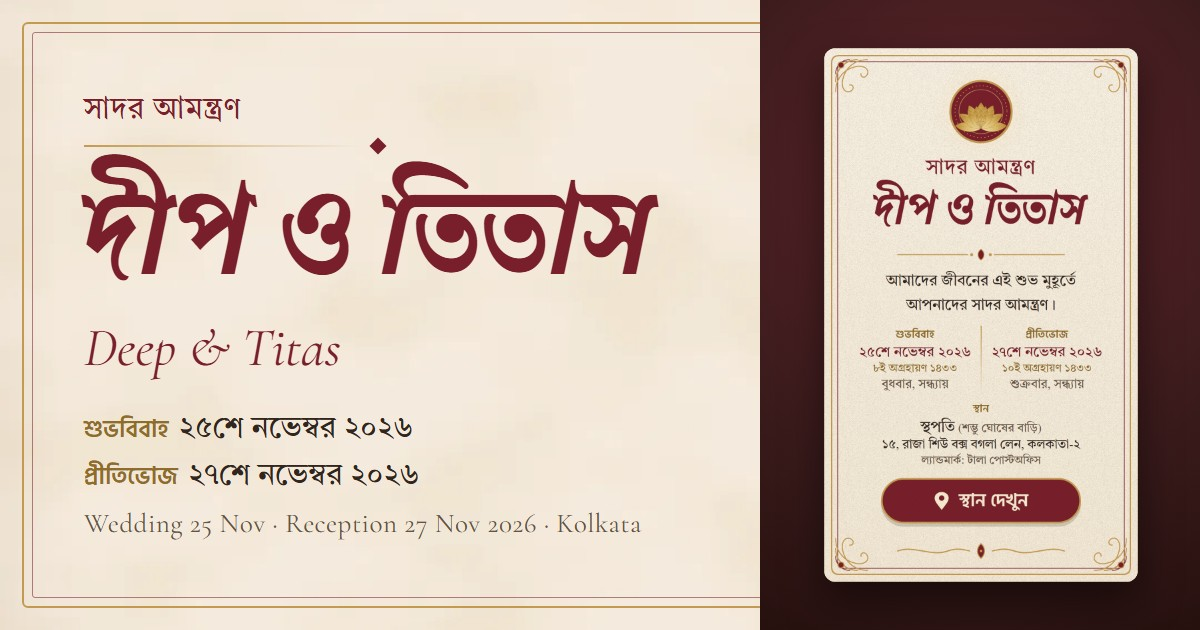
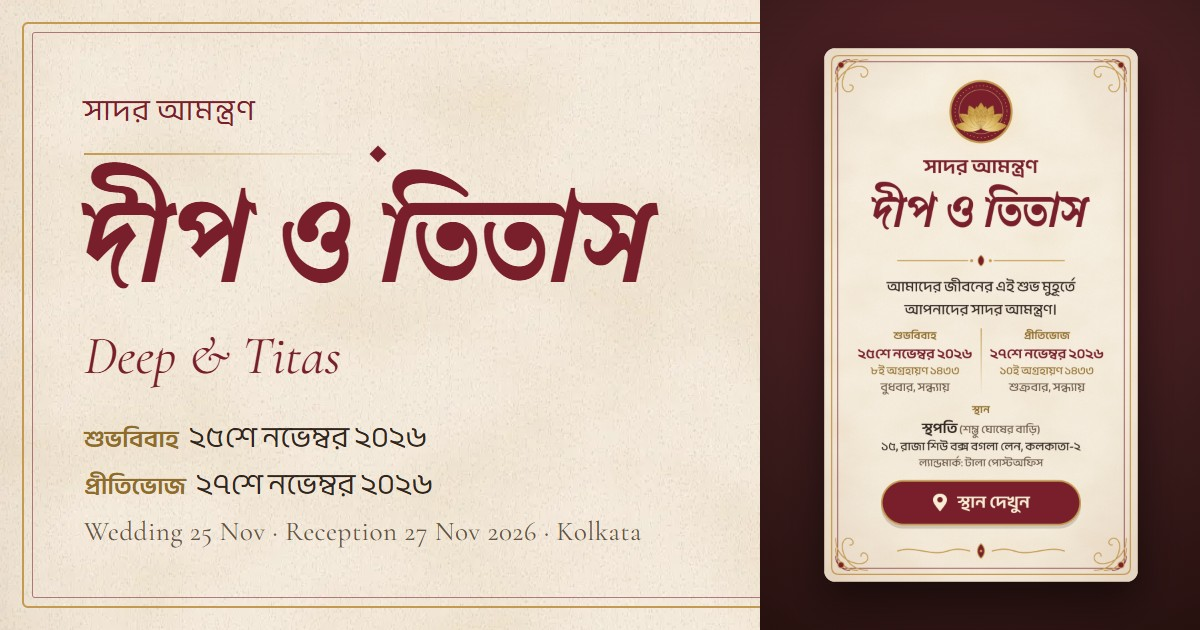
Docs and link preview for the 60 FPS rig, loader and new typography

diff --git a/AGENTS.md b/AGENTS.md
@@ -1,49 +1,67 @@
 # AGENTS.md — Deep & Titas · শুভ পরিণয়
 
-Interactive Bengali wedding invitation. A Remotion composition (1080×1920, 30 FPS, 1500 frames) is played
-inside a mobile-first React shell via `@remotion/player`, and ends on an interactive invitation card.
+Interactive Bengali wedding invitation. A Remotion composition (1080×1920, 60 FPS, 3000 frames, paced in 30-per-second
+"beats") is played inside a mobile-first React shell via `@remotion/player`, and ends on an interactive invitation card.
 
 ## Commands
 - `npm run dev` — Vite dev server for the website
 - `npm run studio` — Remotion Studio (composition id `DeepAndTitasWedding`)
 - `npm run render` — render the full MP4 to `out/`
 - `npm run still` — render the final invitation frame to `out/invitation.png`
+- `npm run art` — regenerate and bake all painted art, sprites and character parts (writes `src/remotion/art-manifest.ts`)
+- `npm run profile` — build, then play the site in headless Chrome as a throttled phone and print fps per scene
 - `npm run typecheck`, `npm run lint`, `npm test`, `npm run build`
 
 ## Architecture
-- `src/config/` — `timeline.ts` (single source of truth for frames), `wedding.ts` (editable event details),
+- `src/config/` — `timeline.ts` (single source of truth: scenes and beats), `wedding.ts` (editable event details),
   `translations.ts` (bn/en dictionary), `assets.ts` (asset URL helper)
-- `src/remotion/` — the cinematic composition (scenes, ornaments, character rig, the invitation card). Registered in `index.ts`/`Root.tsx`.
-- `src/app/` — the website shell (intro, controls, guided-mode state machine in `state/storyMachine.ts`, language toggle)
-- `public/` — local images (generated by `scripts/generate-art.mjs`) and the optional `audio/soundtrack.mp3`
-- `tests/` — Vitest unit tests (timeline, translations, wedding config, story machine)
+- `src/remotion/` — the cinematic composition (scenes, mandap, garden, the character rig, the invitation card).
+  Registered in `index.ts`/`Root.tsx`. `rig/motion.ts` is the pure pose maths (IK, walk, blinks, cloth lag);
+  `components/WeddingCouple.tsx` draws the figures; `camera.ts` the zoom; `art-manifest.ts` is generated.
+- `src/app/` — the website shell: boot loader (`components/Loader.tsx`, `loader/preload.ts`), cover (`IntroScreen.tsx`),
+  controls, guided-mode state machine (`state/storyMachine.ts`), language toggle, soundtrack (`hooks/useSoundtrack.ts`)
+- `scripts/art/*.mjs` — the art generators (garden, mandap, sprites, characters); `scripts/bake-art.mjs` bakes them to WebP
+- `public/` — baked images (`images/`, `images/rig`, `images/mandap`, `images/sprites`) and the optional `audio/soundtrack.mp3`
+- `tests/` — Vitest unit tests (timeline, rig, preloader, translations, dates, wedding config, story machine)
 
 ## Verifying visual changes
-`node scripts/stills.mjs <frames…>` renders PNGs to `out/stills/` (add `--lang=en`). Look at them — key frames:
-0, 150, 239 (scene 1), 420, 569 (scene 2), 820, 960, 1049 (scene 3), 1100, 1499 (invitation).
+`npm run stills` (or `node scripts/stills.mjs <frames…> [--lang=en] [--scale=0.5]`) renders PNGs to `out/stills/`.
+Look at them — key frames (60 FPS): 0, 300, 478 (scene 1), 840, 1138 (scene 2), 1400 (veiled), 1540 (eyes meet),
+1750 (garland), 1960 (tableau), 2098 (scene 3), 2200, 2999 (invitation).
+`node scripts/profile.mjs --no-build [--throttle=2|4]` for performance.
 
 ## Rules
-1. **Frame-driven only.** All cinematic animation derives from `useCurrentFrame()` with `interpolate()`/`spring()`.
-   No `setTimeout`, CSS animation timers or wall-clock time inside `src/remotion/`. The same frame must render identically twice.
-2. **Timeline is the single source of truth.** Scene starts/ends, guided checkpoints, the skip target and the
-   composition duration are all imported from `src/config/timeline.ts`. Never hard-code frame numbers elsewhere.
-   A 1500-frame composition has last frame index 1499.
+1. **Frame-driven only.** All cinematic animation derives from the current frame (`useBeat()` in `lib/time.ts`, which is
+   `useCurrentFrame()` in beats) with `interpolate()`/`progress()`. No `setTimeout`, CSS animation timers or wall-clock time
+   inside `src/remotion/`. The same frame must render identically twice.
+2. **Timeline is the single source of truth.** Scene boundaries (`SCENE_BEATS`), beats, guided checkpoints, the skip target and
+   the duration come from `src/config/timeline.ts`. Pacing is authored in beats (1/30 s); Sequences, the Player and checkpoints
+   use frames (`SCENES`, `beatsToFrames`). Never hard-code frame numbers elsewhere. The 3000-frame composition's last frame is 2999.
 3. **No `import.meta.env` inside `src/remotion/`** (Remotion Studio bundles with webpack). Pass values in via `inputProps`.
-4. **Asset URLs** go through `asset()` in `src/config/assets.ts` using the `assetBase` input prop, so the site works under
-   a sub-path if one is ever needed (`BASE_PATH`). Production is the GitHub user site `https://deepandtitas.github.io/` at the root.
-5. **Never fabricate wedding details.** Date, time, venue name and address stay blank in `wedding.ts` until the family provides them;
-   blank fields are hidden (or shown as clearly marked placeholders in dev only). The map button opens `wedding.mapUrl` exactly as given (the venue's Google Maps listing).
-6. **Character consistency.** Deep and Titas are drawn only by the shared rig in `src/remotion/components/WeddingCouple.tsx`.
+4. **Asset URLs** go through `asset()` / `useAsset()` using the `assetBase` input prop, so the site works under a sub-path
+   if one is ever needed (`BASE_PATH`). Production is the GitHub user site `https://deepandtitas.github.io/` at the root.
+5. **Never fabricate wedding details.** Anything not supplied by the family stays blank in `wedding.ts` and is hidden.
+   The map button opens `wedding.mapUrl` exactly as given (the venue's Google Maps listing).
+6. **Character consistency.** Deep and Titas are drawn only by `src/remotion/components/WeddingCouple.tsx`, from the parts
+   painted in `scripts/art/characters.mjs`. Rest-pose geometry there must match `SKELETON` in `rig/motion.ts`.
 7. **Cultural respect.** Bengali sequence: শুভদৃষ্টি, then মালাবদল. Do not add rituals that are not clearly depicted correctly
    (no fire ritual or sindoor daan). When unsure, use a symbolic depiction.
-8. **Audio** is optional and starts only after a user gesture; a missing track must degrade silently.
+8. **Audio** is optional and starts only after a user gesture; a missing track must degrade silently. The website plays it with
+   a plain `<audio>` in the shell (`useSoundtrack`); the composition's `<Soundtrack>` is only for video renders.
 9. Keep website interaction state (React) separate from frame-driven state (Remotion). Do not re-render the shell per frame.
-10. Bengali is the default language; every visible string comes from `translations.ts`.
+10. Bengali is the default language; every visible string comes from `translations.ts`. "Watch the story" is always the
+    primary cover action (reduced motion changes how the story plays, not which button leads).
 11. Decorative composition layers must stay click-through (`pointer-events: none` on the composition root);
     only hotspot buttons and the map link opt back in. Guided-mode boundary checks use `>=` and run before scene updates,
     because the Player can skip frames on slow devices.
-12. **Performance rules.** Keep per-frame changes out of big static layers: things that change every frame live in their
-    own `<Layer>` (`will-change`), static parts are memoised (`MandapStructure`, `GardenPath`, figures), and nothing is
-    rendered while invisible. Don't reintroduce `mix-blend-mode`, SVG filters or `<svg>` images in the composition — bake art
-    to WebP (`npm run art`). Profile before changing: headless Chrome with `Emulation.setCPUThrottlingRate` ≈ 4 should stay ≈ 30 fps.
-13. Bengali fonts are single-weight (Tiro Bangla, Galada): use `bnWeight()` instead of asking for bold.
+12. **Performance rules (target ≈60 fps on phones).**
+    - Art is baked to trimmed WebP (`npm run art`); don't reintroduce `mix-blend-mode`, SVG filters, `mask-image` or big
+      per-frame SVG in the composition.
+    - Things that move every frame are rendered once and moved by transform/opacity only: `SpriteField` and the figures
+      write their per-frame styles straight to the DOM (`lib/live.ts`), so React does not re-diff them each frame.
+    - Never toggle `will-change` or mount/unmount big layers mid-story; hide with `visibility`/opacity instead.
+    - No Remotion `<Img>` in the website tree (they re-render every frame); `<ArtGate>` exists only for renders, and the
+      loader pre-decodes every image before the story starts.
+    - Measure with `npm run profile`: at `--throttle=2` every scene should hold ~60 fps.
+13. **Fonts.** Bengali text uses Anek Bangla (variable, real weights 100–800); the couple's names use Galada (single weight:
+    always `DISPLAY_WEIGHT`). Boxes that clip or mask Bengali text need `BN_PAD` block padding so vowel signs are never cut.
